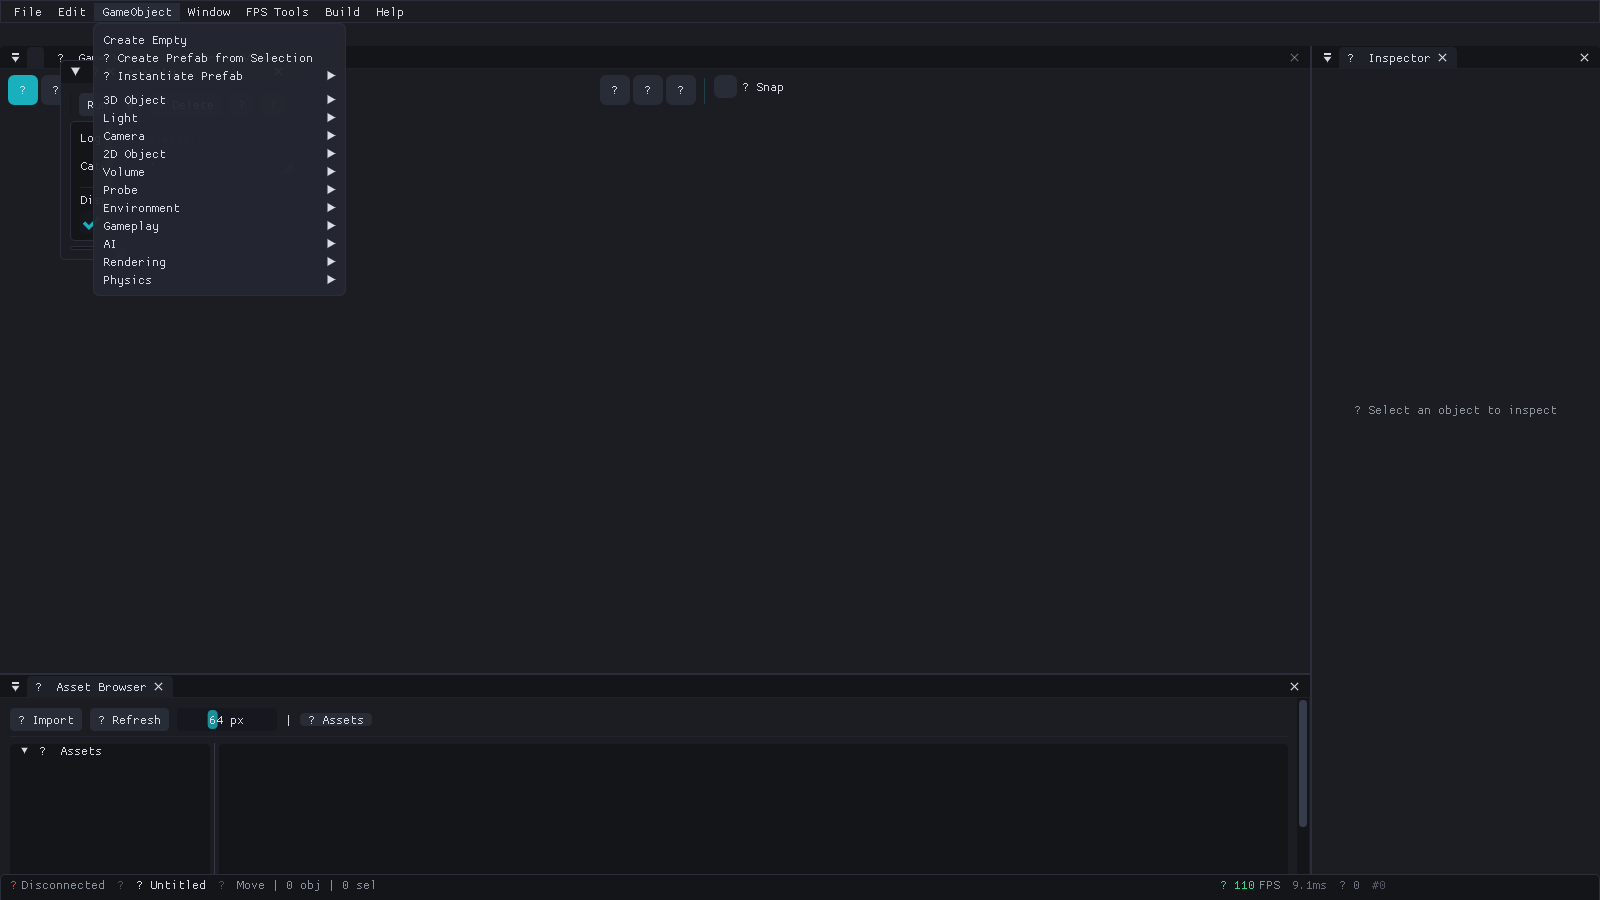
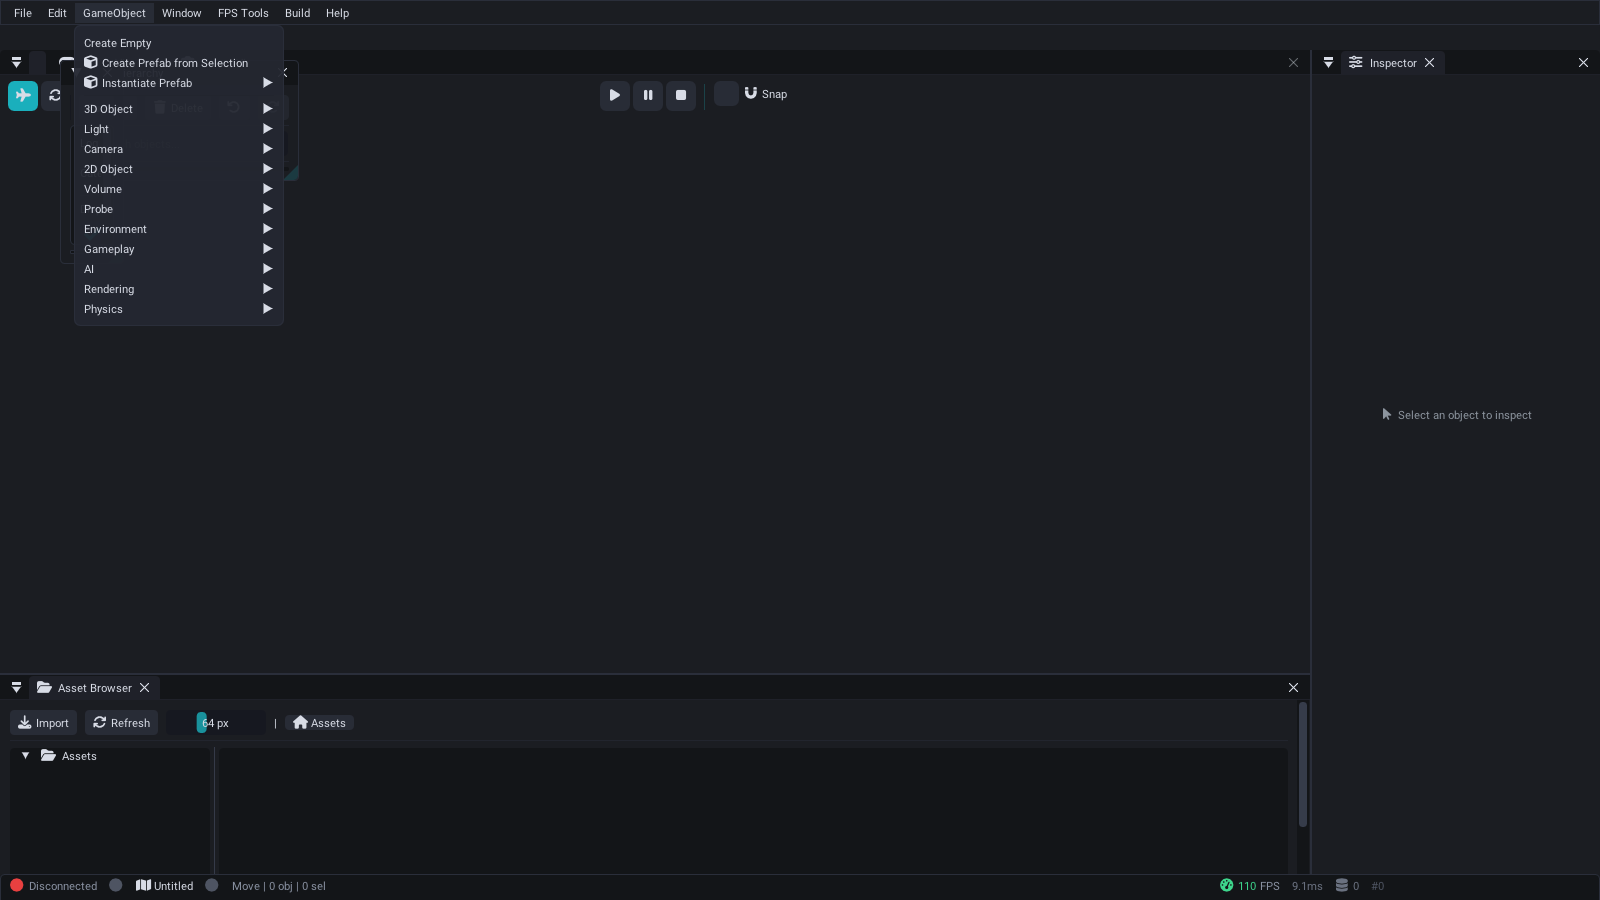
Fix editor screenshots: load fonts from correct working directory
Previous screenshots showed "?" instead of FontAwesome icons because
the editor was launched from build/linux-gcc-release/ instead of
build/linux-gcc-release/bin/ — font lookup for EditorAssets/Fonts/
failed. All 6 screenshots recaptured with proper Roboto + FontAwesome
font rendering (play/pause/stop, folder, sliders, crosshair icons).

Removed physics panel screenshot (still had broken icons from old run).
Replaced with FPS Tools menu screenshot.

https://claude.ai/code/session_01Sz326cjw3rrzmRm45WpGr9

diff --git a/wiki/SparkEditor.md b/wiki/SparkEditor.md
@@ -28,11 +28,11 @@ Create entities with pre-configured components:
 
 ![GameObject creation menu](../docs/screenshots/editor-gameobject-menu.png)
 
-### Physics Panel
+### FPS Tools Menu
 
-The Physics 3D panel provides world settings, gravity presets, and debug tools:
+Weapon editor, spawn points, objectives, explosives, and cover points:
 
-![Physics 3D panel](../docs/screenshots/editor-physics-panel.png)
+![FPS Tools menu](../docs/screenshots/editor-fpstools-menu.png)
 
 **Source:** `SparkEditor/Source/`
 

diff --git a/README.md b/README.md
@@ -76,9 +76,9 @@
 
 ![GameObject menu](docs/screenshots/editor-gameobject-menu.png)
 
-**Physics Panel**
+**FPS Tools**
 
-![Physics 3D](docs/screenshots/editor-physics-panel.png)
+![FPS Tools](docs/screenshots/editor-fpstools-menu.png)
 
 </details>
 
